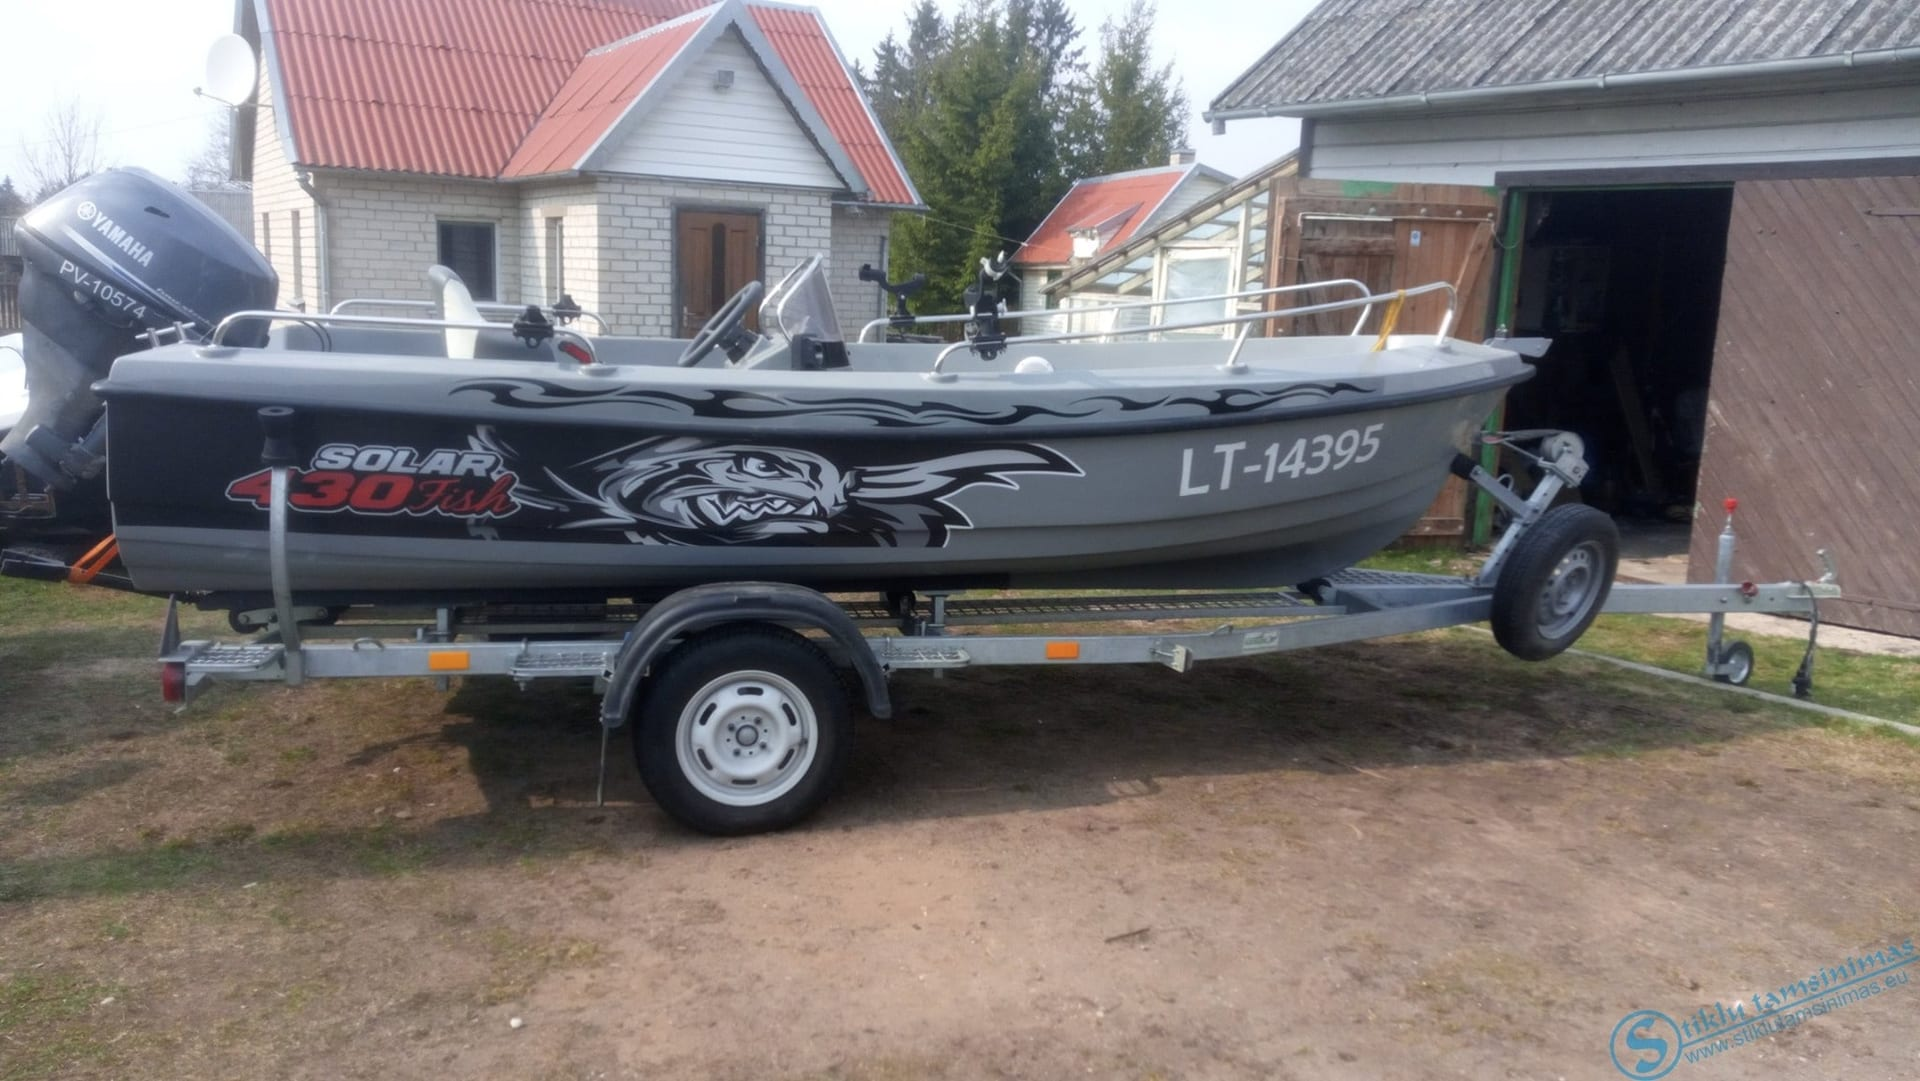
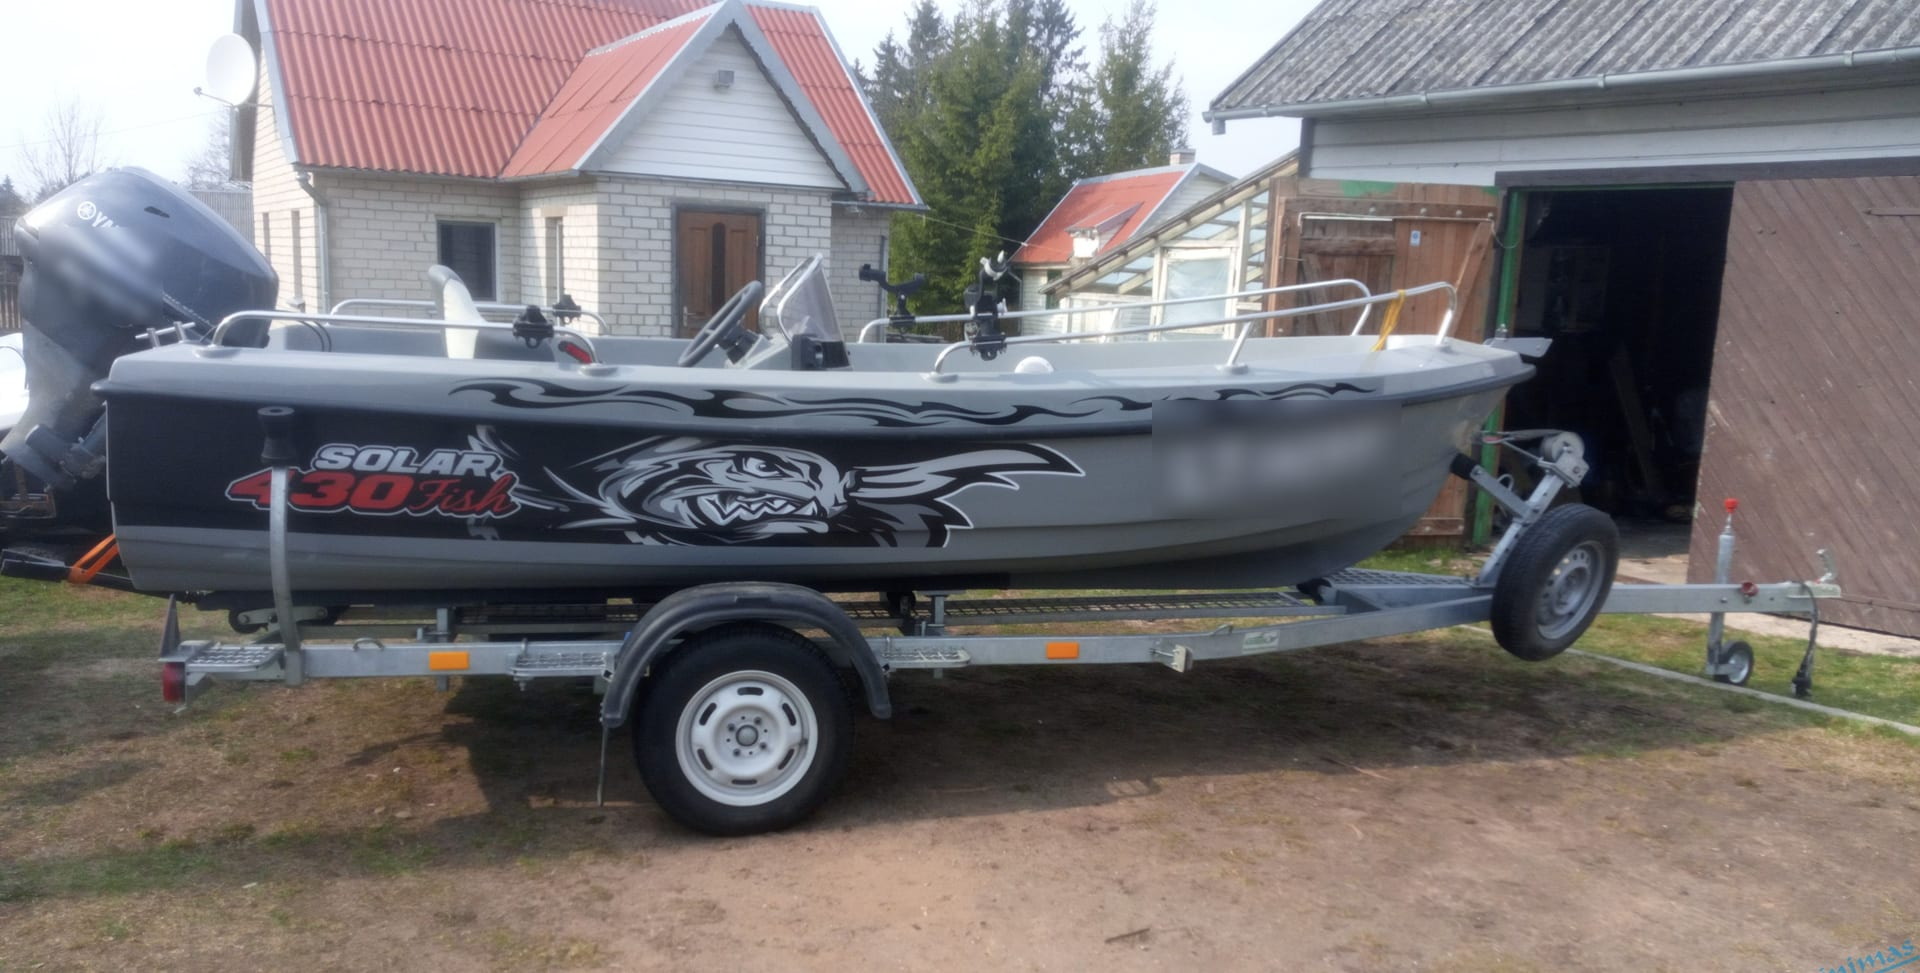
Nuotraukos iš Google Drive GALERIJA aplanko
- 23 naujos darbų nuotraukos iš Drive aplanko HD PAGRINDINIS/GALERIJA
  (automobiliai, žibintai, pastatų fasadai, pertvaros, reklama);
  numeriai uždengti, seni vandens ženklai nukirpti, be EXIF/GPS
- valties nuotraukoje uždengti registracijos numeriai
- paslaugų galerijose rodoma 13 nuotraukų, likusios – per „Žiūrėti visas“
- socialinių tinklų vieta paruošta (site.social), kol kas tuščia
- paminėtas specialiosios technikos ir aukštų fasadų klijavimas

diff --git a/src/config/site.ts b/src/config/site.ts
@@ -35,6 +35,13 @@ export const site = {
   appointmentNote: 'Darbai atliekami tik iš anksto susitarus',
   filmBrands: ['Solar Screen', 'Global Window Films', 'Ultra Vision'],
 
+  /**
+   * Socialiniai tinklai – rodomi poraštėje, kontaktuose ir schema.org `sameAs`.
+   * Tuščias sąrašas – niekas nerodoma. Pvz.: { name: 'Instagram', url: 'https://www.instagram.com/...' }
+   * (ženkliukai paruošti: Instagram, Pinterest – src/components/ui/SocialIcon.astro)
+   */
+  social: [] as { name: string; url: string }[],
+
   locations: [
     { city: 'Kupiškis', cityIn: 'Kupiškyje', street: 'Gedimino g. 67' },
     { city: 'Rokiškis', cityIn: 'Rokiškyje', street: 'Miškininkų g. 5c' },

diff --git a/src/lib/schema.ts b/src/lib/schema.ts
@@ -38,6 +38,7 @@ export function siteGraph() {
       telephone: site.phone,
       description: site.description,
       areaServed: { '@type': 'Country', name: 'Lietuva' },
+      ...(site.social.length > 0 && { sameAs: site.social.map((s) => s.url) }),
       contactPoint: {
         '@type': 'ContactPoint',
         telephone: site.phone,

diff --git a/src/content/services/automobilio-stiklu-tamsinimas.md b/src/content/services/automobilio-stiklu-tamsinimas.md
@@ -45,14 +45,34 @@ prices:
 priceFrom: 120
 
 gallery:
+  - src: ../../assets/automobiliai/range-rover-velar-tamsinti-langai.jpg
+    alt: Range Rover Velar su tamsintais galiniais stiklais
   - src: ../../assets/automobiliai/audi-q7-tamsinti-galiniai-stiklai.jpg
     alt: Baltas Audi Q7 su tamsintais galiniais stiklais
   - src: ../../assets/automobiliai/tesla-model-s-tamsinti-langai.jpg
     alt: Tesla Model S su tamsintais galiniais langais
+  - src: ../../assets/automobiliai/audi-a7-sportback-tamsinti-langai.jpg
+    alt: Audi A7 Sportback su tamsintais galiniais stiklais
+  - src: ../../assets/automobiliai/dodge-challenger-tamsinti-langai.jpg
+    alt: Violetinis Dodge Challenger su tamsintais langais
+  - src: ../../assets/automobiliai/range-rover-vogue-tamsinti-langai.jpg
+    alt: Juodas Range Rover Vogue su tamsintais galiniais stiklais
   - src: ../../assets/automobiliai/bmw-ix1-tamsinti-stiklai.jpg
     alt: BMW iX1 su tamsintais galiniais stiklais
+  - src: ../../assets/automobiliai/jaguar-i-pace-tamsinti-langai.jpg
+    alt: Jaguar I-Pace su tamsintais galiniais langais
+  - src: ../../assets/automobiliai/audi-q5-tamsinti-galiniai-stiklai.jpg
+    alt: Baltas Audi Q5 su tamsintais galiniais stiklais
+  - src: ../../assets/automobiliai/land-rover-discovery-sport-tamsinimas.jpg
+    alt: Land Rover Discovery Sport su tamsintais galiniais stiklais
+  - src: ../../assets/automobiliai/ford-mondeo-tamsinti-langai.jpg
+    alt: Raudonas Ford Mondeo su tamsintais galiniais stiklais
   - src: ../../assets/automobiliai/vw-transporter-langu-tamsinimas.jpg
     alt: VW Transporter su tamsintais salono langais
+  - src: ../../assets/automobiliai/audi-a6-tamsinti-langai.jpg
+    alt: Audi A6 su tamsintais galiniais langais
+  - src: ../../assets/automobiliai/skoda-karoq-tamsinti-langai.jpg
+    alt: Škoda Karoq su tamsintais galiniais stiklais
   - src: ../../assets/automobiliai/mercedes-glc-tamsinimas.jpg
     alt: Mercedes-Benz GLC su tamsintais galiniais langais
   - src: ../../assets/automobiliai/skoda-octavia-universalas-tamsinimas.jpg
@@ -63,6 +83,8 @@ gallery:
     alt: Tesla Model 3 su tamsintais galiniais stiklais
   - src: ../../assets/automobiliai/volvo-xc90-melynas-tamsinimas.jpg
     alt: Mėlynas Volvo XC90 su tamsintais galiniais stiklais
+  - src: ../../assets/automobiliai/ford-tourneo-custom-tamsinimas.jpg
+    alt: Ford Tourneo Custom su tamsintais salono langais
   - src: ../../assets/automobiliai/toyota-auris-universalas-tamsinimas.jpg
     alt: Toyota Auris universalas su tamsintais langais
   - src: ../../assets/automobiliai/ford-transit-custom-tamsinimas.jpg
@@ -79,6 +101,8 @@ gallery:
     alt: Baltas Range Rover Sport su tamsintais galiniais langais
   - src: ../../assets/automobiliai/skoda-superb-universalas-tamsinimas.jpg
     alt: Škoda Superb universalas po galinių stiklų tamsinimo
+  - src: ../../assets/automobiliai/ekskavatoriaus-kabinos-stiklu-tamsinimas.jpg
+    alt: CAT ekskavatoriaus kabinos stiklų tamsinimas
 
 faq:
   - q: Kiek kainuoja automobilio stiklų tamsinimas?
@@ -121,6 +145,8 @@ Konsultacijos metu patarsime, kuri plėvelė geriausiai tiks jūsų automobiliui
 ## Kaip vyksta darbas
 
 Kiekvieną plėvelę išpjauname pagal konkretaus stiklo formą, stiklus kruopščiai nuvalome ir plėvelę klijuojame iš vidinės pusės. Galinių stiklų tamsinimas dažniausiai trunka **2–3 valandas**, todėl automobilį atsiimsite tą pačią dieną.
+
+Tamsiname ne tik lengvuosius automobilius, bet ir **mikroautobusus, furgonus bei specialiosios technikos kabinas** – pavyzdžiui, ekskavatorių.
 
 Galime dirbti ir pas jus – plačiau apie [mobilų stiklų tamsinimą](/mobilus-stiklu-tamsinimas). Jei norite tamsinti ir priekinius langus, skaitykite apie [priekinių stiklų tamsinimą](/priekiniu-stiklu-tamsinimas) ir taikomus reikalavimus.
 

diff --git a/src/content/services/langu-tamsinimas.md b/src/content/services/langu-tamsinimas.md
@@ -35,10 +35,14 @@ benefits:
     text: Mažiau karščio vasarą reiškia mažesnį kondicionavimo poreikį ir energijos sąnaudas.
 
 gallery:
+  - src: ../../assets/pastatai/fasado-stiklu-klijavimas-keltuvu.jpg
+    alt: Komercinio pastato stiklinio fasado klijavimas plėvele naudojant keltuvą
   - src: ../../assets/pastatai/namo-fasado-veidrodine-plevele.jpg
     alt: Modernaus pastato fasado langai su veidrodine plėvele
   - src: ../../assets/pastatai/dideli-langai-veidrodine-plevele.jpg
     alt: Dideli langai su veidrodine plėvele – iš lauko matosi tik atspindys
+  - src: ../../assets/pastatai/komercinio-pastato-fasado-plevele.jpg
+    alt: Komercinio pastato stiklinis fasadas – plėvelės klijavimo darbai
   - src: ../../assets/pastatai/namo-lango-veidrodine-plevele.jpg
     alt: Namo langas su veidrodine plėvele
   - src: ../../assets/pastatai/duru-stiklo-ruda-plevele.jpg
@@ -89,7 +93,7 @@ Langų plėvelė – greitas ir ekonomiškas būdas pagerinti patalpų komfortą
 
 ## Kur dažniausiai naudojama
 
-Langų plėveles klijuojame **privačiuose namuose, butuose, biuruose, parduotuvėse, sporto salėse** ir kitose komercinėse patalpose. Didelius stiklo plotus turintiems pastatams plėvelė ypač naudinga – patalpos vasarą perkaista gerokai mažiau.
+Langų plėveles klijuojame **privačiuose namuose, butuose, biuruose, parduotuvėse, sporto salėse** ir kitose komercinėse patalpose. Didelius stiklo plotus turintiems pastatams plėvelė ypač naudinga – patalpos vasarą perkaista gerokai mažiau. Aukštus stiklinius fasadus klijuojame naudodami keltuvą.
 
 ## Kaip vyksta darbas
 

diff --git a/src/content/services/lipduku-spausdinimas.md b/src/content/services/lipduku-spausdinimas.md
@@ -47,8 +47,18 @@ gallery:
     alt: Kavinės reklaminė iškaba
   - src: ../../assets/reklama/spausdinta-meniu-lenta.jpg
     alt: Spausdinta kavinės meniu lenta
+  - src: ../../assets/reklama/mazda-galinio-stiklo-lipdukas-vytis.jpg
+    alt: Mazda 2 su Vyčio lipduku ant galinio stiklo
   - src: ../../assets/reklama/furgono-reklama-lipdukai.jpg
     alt: Furgonas su įmonės reklama
+  - src: ../../assets/reklama/spausdinti-reklaminiai-lipdukai.jpg
+    alt: Spausdinti automobilių plovyklos reklaminiai lipdukai
+  - src: ../../assets/reklama/sunkvezimio-reklama-lipdukai.jpg
+    alt: Sunkvežimio reklama – užrašai ant kabinos durų
+  - src: ../../assets/reklama/furgono-kapoto-logotipas.jpg
+    alt: Įmonės logotipas ant furgono kapoto
+  - src: ../../assets/reklama/mikroautobuso-lango-lipdukas-vytis.jpg
+    alt: Vyčio lipdukas ant mikroautobuso lango ir baidarių nuomos reklama
   - src: ../../assets/reklama/stalo-apklijavimas.jpg
     alt: Stalo paviršiaus apklijavimas spausdinta plėvele
   - src: ../../assets/reklama/valties-apklijavimas.jpg

diff --git a/src/content/services/zibintu-tamsinimas.md b/src/content/services/zibintu-tamsinimas.md
@@ -39,10 +39,14 @@ gallery:
     alt: Range Rover galiniai žibintai po tamsinimo plėvele
   - src: ../../assets/zibintai/mercedes-e-tamsinti-galiniai-zibintai.jpg
     alt: Mercedes-Benz E klasė su tamsintais galiniais žibintais
+  - src: ../../assets/zibintai/mercedes-galiniai-zibintai-su-plevele.jpg
+    alt: Mercedes-Benz galiniai žibintai su tamsinimo plėvele
   - src: ../../assets/zibintai/toyota-galinio-zibinto-tamsinimas.jpg
     alt: Toyota galinio žibinto tamsinimas plėvele
   - src: ../../assets/zibintai/galinio-zibinto-tamsinimo-procesas.jpg
     alt: Galinio žibinto tamsinimas – plėvelė prigludusi prie žibinto formos
+  - src: ../../assets/zibintai/audi-galinis-zibintas-patamsintas.jpg
+    alt: Audi galinis žibintas po tamsinimo plėvele
   - src: ../../assets/zibintai/plevele-klijuojama-ant-zibinto.jpg
     alt: Tamsinimo plėvelė klijuojama ant galinio žibinto
   - src: ../../assets/zibintai/toyota-galinis-zibintas-su-plevele.jpg

diff --git a/src/content/services/stiklo-pertvaros.md b/src/content/services/stiklo-pertvaros.md
@@ -45,6 +45,8 @@ gallery:
     alt: Stiklo pertvara komercinėje patalpoje
   - src: ../../assets/pertvaros/stumdomos-stiklo-durys.jpg
     alt: Stumdomos matinio stiklo durys mansardoje
+  - src: ../../assets/pertvaros/spalvoto-stiklo-loft-pertvara.jpg
+    alt: Loft stiliaus pertvara su spalvoto stiklo intarpais montavimo metu
 
 faq:
   - q: Ar stiklo pertvarą galima derinti su matine plėvele?
